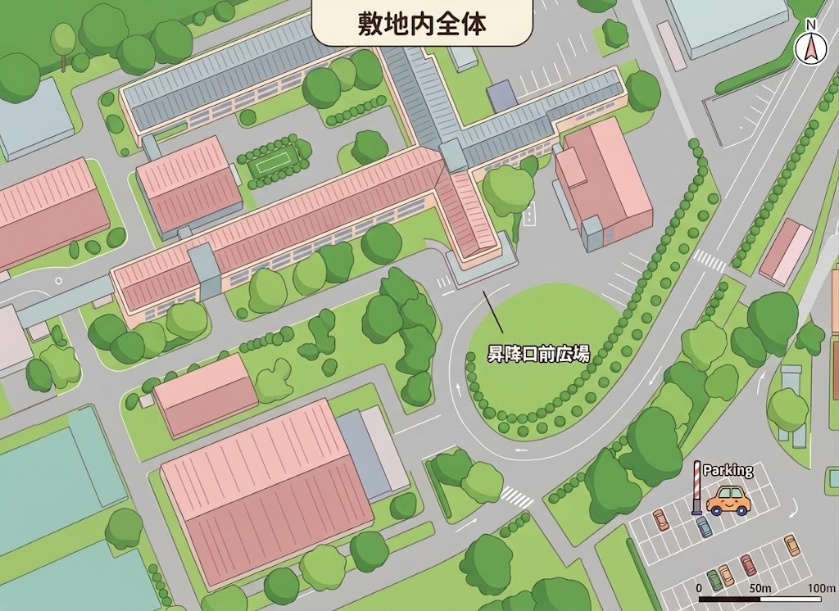
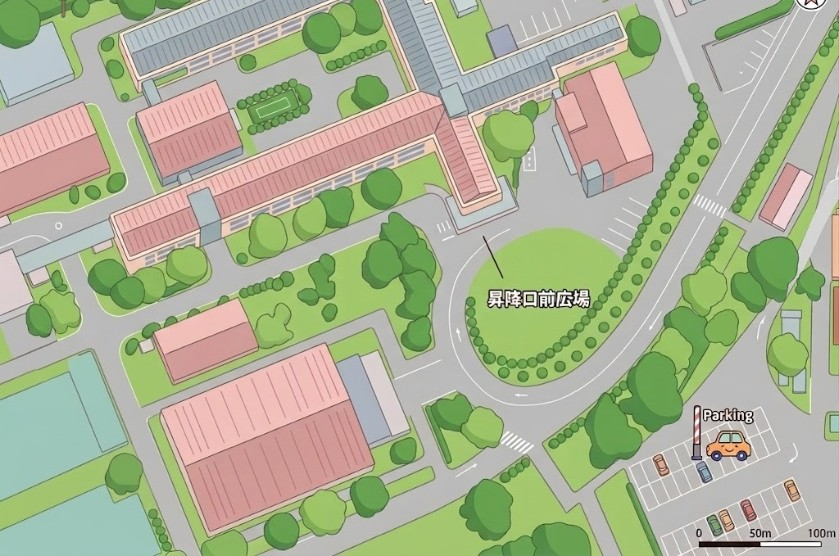
ロゴ変更

diff --git a/app/page.tsx b/app/page.tsx
@@ -9,7 +9,6 @@ import {
   MapPin,
   ChevronRight,
   X,
-  Compass
 } from "lucide-react";
 
 interface StallItem {
@@ -297,7 +296,6 @@ const EVENTS_DATA = [
   }
 ];
 
-// 構内図画像上のピン位置情報（メディアセンターを削除し7号館を配置）
 const CAMPUS_ZONES = [
   {
     id: "gym1",
@@ -373,7 +371,7 @@ const CAMPUS_ZONES = [
   }
 ];
 
-export default function App() {
+export default function Page() {
   const [isEntered, setIsEntered] = useState(false);
   const [activeTab, setActiveTab] = useState<"map" | "stalls" | "events">("map");
   const [searchQuery, setSearchQuery] = useState("");
@@ -445,14 +443,10 @@ export default function App() {
       {/* Header */}
       <header className="sticky top-0 z-40 bg-white/90 backdrop-blur-md border-b border-slate-200 shadow-sm">
         <div className="max-w-2xl mx-auto px-4 py-2.5 flex items-center justify-between gap-2">
-          <button onClick={() => setIsEntered(false)} className="flex items-center gap-2 text-left shrink-0">
-            <div className="w-9 h-9 rounded-xl bg-gradient-to-tr from-orange-500 via-amber-500 to-rose-500 flex items-center justify-center font-black text-white text-base shadow-sm">
-              高
-            </div>
-            <div className="flex flex-col leading-tight">
-              <span className="font-black text-sm text-slate-800">熱狂の高専祭2026</span>
-              <span className="text-[10px] text-slate-500">鶴岡高専キャンパス</span>
-            </div>
+          {/* 左上ロゴ：「高専ロゴ.jpg」アイコン + 「高専祭」テキスト */}
+          <button onClick={() => setIsEntered(false)} className="flex items-center gap-2.5 text-left shrink-0">
+            <img src="/高専ロゴ.jpg" alt="高専ロゴ" className="w-9 h-9 object-contain" />
+            <span className="font-black text-lg text-slate-800">高専祭</span>
           </button>
 
           {/* 右上ナビゲーション：タップ時のみテキスト表示 */}
@@ -495,20 +489,7 @@ export default function App() {
       <main className="max-w-2xl mx-auto px-4 pt-4 pb-12 space-y-4">
         {activeTab === "map" && (
           <div className="space-y-4">
-            {/* Header info (文字削除済み) */}
-            <div className="bg-white rounded-3xl px-4 py-3 border border-slate-200 shadow-sm flex items-center justify-between">
-              <div className="flex items-center gap-2">
-                <Compass className="w-4 h-4 text-orange-600" />
-                <span className="text-xs font-black tracking-widest text-orange-600 uppercase">
-                  INTERACTIVE MAP
-                </span>
-              </div>
-              <span className="text-xs bg-orange-100 text-orange-800 font-extrabold px-3 py-1 rounded-full border border-orange-200">
-                ピンをタップ！
-              </span>
-            </div>
-
-            {/* Interactive Image Map */}
+            {/* インタラクティブ構内図（INTERACTIVE MAPの欄は削除済み） */}
             <div className="relative w-full rounded-3xl overflow-hidden border-2 border-slate-200 shadow-md bg-slate-200 aspect-[4/3]">
               <img
                 src="/校内図.jpeg"

diff --git a/app/layout.tsx b/app/layout.tsx
@@ -1,29 +1,25 @@
 import type { Metadata } from "next";
-import { Geist, Geist_Mono } from "next/font/google";
+import { Inter } from "next/font/google";
 import "./globals.css";
 
-const geistSans = Geist({
-  variable: "--font-geist-sans",
-  subsets: ["latin"],
-});
-
-const geistMono = Geist_Mono({
-  variable: "--font-geist-mono",
-  subsets: ["latin"],
-});
+const inter = Inter({ subsets: ["latin"] });
 
 export const metadata: Metadata = {
-  title: "Create Next App",
-  description: "Generated by create next app",
+  title: "高専祭",
+  description: "鶴岡高専祭 2026 キャンパスガイド",
+  icons: {
+    icon: "/高専ロゴ.jpg",
+  },
 };
 
-export default function RootLayout({ children }: LayoutProps<"/">) {
+export default function RootLayout({
+  children,
+}: Readonly<{
+  children: React.ReactNode;
+}>) {
   return (
-    <html
-      lang="en"
-      className={`${geistSans.variable} ${geistMono.variable} h-full antialiased`}
-    >
-      <body className="min-h-full flex flex-col">{children}</body>
+    <html lang="ja">
+      <body className={inter.className}>{children}</body>
     </html>
   );
 }
